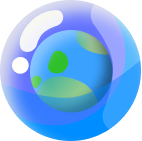
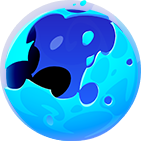
update

diff --git a/mini-game/src/screens/TitleScreen.ts b/mini-game/src/screens/TitleScreen.ts
@@ -36,7 +36,6 @@ export class TitleScreen extends Container implements AppScreen {
     private _pixiLogo!: PixiLogo;
     private _cannon!: Cannon;
     private _footer!: Graphics;
-    private _forkBtn!: PrimaryButton;
     private _playBtn!: PrimaryButton;
     private _audioBtn!: AudioButton;
     /** An animated background decor instance */
@@ -172,8 +171,6 @@ export class TitleScreen extends Container implements AppScreen {
         this._footer.x = w * 0.5;
         this._footer.y = h;
 
-        this._forkBtn.x = w - this._pixiLogo.view.x;
-        this._forkBtn.y = this._pixiLogo.view.y + this._forkBtn.height * 0.5 - 5;
 
         this._audioBtn.x = w - 40;
         this._audioBtn.y = 40;
@@ -232,7 +229,7 @@ export class TitleScreen extends Container implements AppScreen {
         const type = randomType();
 
         // Use the type to assign a colour
-        this._footer = new Graphics().ellipse(0, 0, 300, 125).fill({ color: boardConfig.bubbleTypeToColor[type] });
+        this._footer = new Graphics().ellipse(0, 0, 300, 125).fill({ color: '#212529' });
         this._bottomAnimContainer.addChild(this._footer);
 
         this._cannon = new Cannon();
@@ -253,34 +250,8 @@ export class TitleScreen extends Container implements AppScreen {
 
     /** Add buttons to screen. */
     private _buildButtons() {
-        this._forkBtn = new PrimaryButton({
-            text: i18n.t('forkGithub'),
-            textStyle: {
-                fill: 0xe91e63,
-                fontFamily: 'Opensans Semibold',
-                fontWeight: 'bold',
-                align: 'center',
-                fontSize: 16,
-            },
-            buttonOptions: {
-                defaultView: 'pixi-btn-up',
-                pressedView: 'pixi-btn-down',
-                textOffset: {
-                    default: {
-                        y: -13,
-                    },
-                    pressed: {
-                        y: -8,
-                    },
-                },
-            },
-        });
 
-        this._forkBtn.onPress.connect(() => {
-            window.open(designConfig.forkMeURL, '_blank')?.focus();
-        });
 
-        this._bottomAnimContainer.addChild(this._forkBtn);
 
         this._audioBtn = new AudioButton();
         this._topAnimContainer.addChild(this._audioBtn);

diff --git a/mini-game/src/utils/i18n-en.ts b/mini-game/src/utils/i18n-en.ts
@@ -3,10 +3,10 @@
  */
 export const i18nDict = {
     pixiLogoHeader: 'Made with',
-    gameTitle: 'BUBBO',
-    gameSubtitle: 'SPACE MACHINE',
+    gameTitle: 'VIBOO',
+    gameSubtitle: 'VIBERTY SPACE',
     titlePlay: 'SHOOT BUBBLES!',
-    forkGithub: 'Fork me\non Github',
+    forkGithub: '',
     helperMobile: 'Hold to aim\nRelease to shoot!',
     helperDesktop: 'Move mouse to aim\nLeft click to shoot!',
     paused: 'GAME PAUSED',

diff --git a/mini-game/index.html b/mini-game/index.html
@@ -4,7 +4,7 @@
     <meta charset="UTF-8" />
     <meta name="viewport" content="width=device-width, initial-scale=1.0" />
     <link rel="icon" type="image/x-icon" href="images/favicon.png">
-    <title>Bubbo Bubbo</title>
+    <title>VIBERTY VIBOO</title>
     <style>
       html, body {
         margin: 0;
